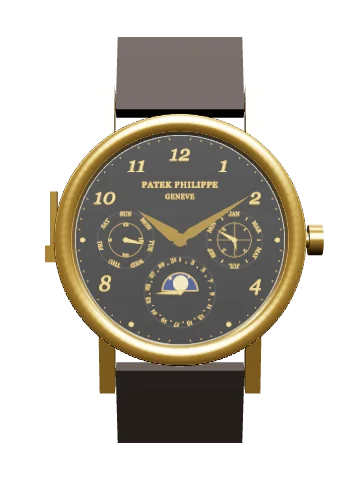
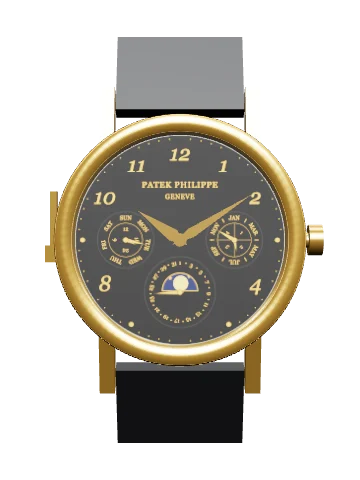
Patek 3974: correct the metal colours
Yellow gold is brighter and less olive (all three gold watches). On the 3974 the bridges are bright silver as photographed, the rotor and the governor's cross are a satin gold that no longer reads brown, the stand-in movement ring is gold like the case, and the strap is black. Thumbnails re-rendered for the three gold watches.

diff --git a/workbench/model.js b/workbench/model.js
@@ -7,7 +7,9 @@ import * as THREE from 'three';
 const INK = 0x242521, BRASS_HI = 0xE2C27A;
 const KIND = {
   steel:    { real: { color: 0xcfcfcb, metalness: 1, roughness: 0.3 }, tech: 0xEDE6D8 },
-  gold:     { real: { color: 0xd9b25c, metalness: 1, roughness: 0.24 }, tech: 0xEDE6D8 },
+  gold:     { real: { color: 0xefc567, metalness: 1, roughness: 0.24 }, tech: 0xEDE6D8 }, // 18-carat yellow gold
+  goldSatin:{ real: { color: 0xe6c36c, metalness: 0.7, roughness: 0.5 }, tech: 0xEDE6D8 }, // gold with an engine-turned or grained face, which scatters the light and reads brighter
+  rhodium:  { real: { color: 0xe6e6e2, metalness: 0.8, roughness: 0.42 }, tech: 0xEDE6D8 }, // the bright silvery plating on fine bridges
   rose:     { real: { color: 0xd9a183, metalness: 1, roughness: 0.26 }, tech: 0xEDE6D8 },
   navy:     { real: { color: 0x151b30, metalness: 0, roughness: 0.85 }, tech: 0xD9CEB9 },
   steelDark:{ real: { color: 0x9c9c99, metalness: 1, roughness: 0.36 }, tech: 0xE1D8C4 },
@@ -172,7 +174,7 @@ export function buildProcedural(watch, face, tex) {
   assembly(hands, 13);
 
   /* ----- spacer ring, dust cover, caseback ----- */
-  if (P.spacer !== false && !wideMv) { const spacer = part('spacer'); spacer.add(mk(lathe([[mvR + 0.05, -3.6], [inner - 0.1, -3.6], [inner - 0.1, 2.0], [mvR + 0.05, 2.0], [mvR + 0.05, -3.6]]), 'steelDark')); assembly(spacer, -7); }
+  if (P.spacer !== false && !wideMv) { const spacer = part('spacer'); spacer.add(mk(lathe([[mvR + 0.05, -3.6], [inner - 0.1, -3.6], [inner - 0.1, 2.0], [mvR + 0.05, 2.0], [mvR + 0.05, -3.6]]), P.spacerKind || 'steelDark')); assembly(spacer, -7); }
   const dust = P.dustCover === false ? null : part('dustcover'); if (dust) { dust.add(at(mk(cyl(inner - 0.3, 0.25, 64), 'iron'), 0, 0, -4.3)); assembly(dust, -24); }
   const back = part('caseback'); if (tank) back.add(at(mk(extr(rrShape(wideMv ? R - 0.05 : CW, CH, CR), 1.2), CASE), 0, 0, -5.8)); else back.add(mk(lathe([[0, -6.4], [R - 6.85, -6.4], [R - 2.25, -5.4], [R - 1.45, -4.6], [0, -4.6]]), CASE)); if (G3) back.add(at(mk(cyl(G3.tb[2] + 0.4, 0.08, 48), 'ink'), G3.tb[0], G3.tb[1], -4.55)); /* dark behind the tourbillon when the back is on; with the back off, the tourbillon shows from behind too */ assembly(back, -31);
 
@@ -531,18 +533,18 @@ export function buildProcedural(watch, face, tex) {
     pal.rotation.z = Math.atan2(BY - pmy, BX - pmx) - Math.PI / 2; pal.add(palRock);
     palRock.add(at(mk(new THREE.BoxGeometry(0.4, 2.6, 0.2), 'steelDark'), 0, 0.4, 1.1), at(mk(new THREE.BoxGeometry(1.8, 0.36, 0.2), 'steelDark'), 0, -0.8, 1.1), at(mk(new THREE.BoxGeometry(0.28, 0.45, 0.3), 'ruby'), -0.8, -1.0, 1.1), at(mk(new THREE.BoxGeometry(0.28, 0.45, 0.3), 'ruby'), 0.8, -1.0, 1.1));
     /* bridges: plain outlines laid over the jewels that the photograph shows */
-    layer(flat('main-bridge', [[3.2, 7.4, 4.2], [-3.8, 7.8, 3.5], [-8.6, 6.6, 1.6]], 2.35, 0.45), 4);
-    layer(flat('repeater-bridge', [[6.0, -6.2, 3.2], [6.4, -8.3, 2.4]], 2.35, 0.45), 4);
-    layer(flat('escape-cock', [[eX, eY, 1.0], [-10.9, -1.0, 1.1]], 2.35, 0.45), 4);
-    layer(flat('pallet-cock', [[pmx, pmy, 0.6], [-9.3, -5.3, 0.6]], 1.45, 0.24), 3);
-    layer(flat('balance-cock', [[BX, BY, 1.3], [-9.6, -6.9, 1.2]], 3.3, 0.45), 4);
+    layer(flat('main-bridge', [[3.2, 7.4, 4.2], [-3.8, 7.8, 3.5], [-8.6, 6.6, 1.6]], 2.35, 0.45, 'rhodium'), 4); // bright and silvery, as the photographs show them
+    layer(flat('repeater-bridge', [[6.0, -6.2, 3.2], [6.4, -8.3, 2.4]], 2.35, 0.45, 'rhodium'), 4);
+    layer(flat('escape-cock', [[eX, eY, 1.0], [-10.9, -1.0, 1.1]], 2.35, 0.45, 'rhodium'), 4);
+    layer(flat('pallet-cock', [[pmx, pmy, 0.6], [-9.3, -5.3, 0.6]], 1.45, 0.24, 'rhodium'), 3);
+    layer(flat('balance-cock', [[BX, BY, 1.3], [-9.6, -6.9, 1.2]], 3.3, 0.45, 'rhodium'), 4);
     jewel(-3.71, 9.35, 2.86, 4); jewel(-6.34, 7.81, 2.86, 4); jewel(-9.28, 6.49, 2.86, 4);
     jewel(6.8, -4.41, 2.86, 4); jewel(4.64, -5.8, 2.86, 4); jewel(7.27, -7.96, 2.86, 4); jewel(5.41, -9.2, 2.86, 4);
     jewel(eX, eY, 2.86, 4); jewel(BX, BY, 3.82, 4); jewel(pmx, pmy, 1.3, 0);
     /* the repeater's governor: a small flywheel that sets the pace of the chime. On this calibre it is open to view and carries the Calatrava cross */
     const gov = at(part('governor', mv), 8.12, 0.31, 0);
-    gov.add(at(mk(new THREE.TorusGeometry(2.9, 0.22, 8, 56), 'steel', { edgeAngle: 50 }), 0, 0, 2.3), at(mk(cyl(0.55, 0.3, 14), 'gold'), 0, 0, 2.3), at(mk(cyl(0.2, 2.4, 10), 'steelDark', { noEdges: true }), 0, 0, 1.2));
-    for (let k = 0; k < 2; k++) { const arm = mk(new THREE.BoxGeometry(5.3, 0.75, 0.2), 'gold'); arm.position.z = 2.3; arm.rotation.z = k * Math.PI / 2; gov.add(arm); }
+    gov.add(at(mk(new THREE.TorusGeometry(2.9, 0.22, 8, 56), 'steel', { edgeAngle: 50 }), 0, 0, 2.3), at(mk(cyl(0.55, 0.3, 14), 'goldSatin'), 0, 0, 2.3), at(mk(cyl(0.2, 2.4, 10), 'steelDark', { noEdges: true }), 0, 0, 1.2));
+    for (let k = 0; k < 2; k++) { const arm = mk(new THREE.BoxGeometry(5.3, 0.75, 0.2), 'goldSatin'); arm.position.z = 2.3; arm.rotation.z = k * Math.PI / 2; gov.add(arm); }
     layer(gov, 5); gov.userData.anchor = [0, 0, 2.6];
     /* the two hammers, at the edge of the movement, and the two wire gongs that run round it */
     layer(multi('hammers', [[[1.16, -9.97, 0.8], [2.5, -8.9, 0.5]], [[3.48, -8.81, 0.8], [4.9, -8.0, 0.5]]], 2.85, 0.4, 'steel'), 7);
@@ -551,7 +553,7 @@ export function buildProcedural(watch, face, tex) {
     gongs.userData.anchor = [0, mvR - 0.45, 0.8]; layer(gongs, 2);
     /* the rotor: a half-disc of gold on its own pivot, off centre, swinging above the bridges */
     const rot = at(part('rotor', mv), -4.48, -0.46, 0), rw = new THREE.Shape(); rw.absarc(0, 0, 7.9, -Math.PI / 4, Math.PI * 3 / 4, false); rw.closePath();
-    rot.add(at(mk(extr(rw, 0.55), 'gold', { edgeAngle: 40 }), 0, 0, 3.95), at(mk(cyl(1.1, 0.7, 20), 'steel'), 0, 0, 4.3), at(mk(cyl(0.7, 3.95, 16), 'steelDark', { noEdges: true }), 0, 0, 1.975));
+    rot.add(at(mk(extr(rw, 0.55), 'goldSatin', { edgeAngle: 40 }), 0, 0, 3.95), at(mk(cyl(1.1, 0.7, 20), 'steel'), 0, 0, 4.3), at(mk(cyl(0.7, 3.95, 16), 'steelDark', { noEdges: true }), 0, 0, 1.975));
     rot.userData.anchor = [2.5, 2.5, 4.6]; layer(rot, 12);
     /* From a second photograph, of a rose gold 3974 (Watch Collecting Lifestyle, 2016), fitted to this layout by the governor and the rotor's pivot: two steel winding wheels
        in mesh, one on the rotor's axis and one beside it, and a large capped jewel in the main bridge. The same photograph puts a jewel within 0.5 mm of the one taken above to

diff --git a/workbench/watches/patek-3974.js b/workbench/watches/patek-3974.js
@@ -25,7 +25,7 @@ export default {
     type: 'procedural',
     builder: 'round-chronograph',
     note: 'A partial model. Patek Philippe publishes no drawing of this movement, and most of it cannot be seen. What shows from the back is placed from two photographs: the gold rotor and the winding wheels beneath it, the repeater’s governor, the balance, the hammers and the jewels in the bridges. The barrel, the going train, the repeating work and the calendar work are hidden, and they are left out of the model so that nothing is invented. Case, lugs and bezel are simplified. Not a factory model or scan.',
-    params: { thickness: 12, lugToLug: 43, lugWidth: 19, movementDiameter: 28, beatsPerHour: 21600, calibre: 'R27', chrono: false, noSeconds: true, dustCover: false, metal: 'gold', hands: 'dauphine', plate: 'steel', bezelInsert: false, slide: true, crownR: 2.2, dome: 1.6, wall: 3.0, lugThick: 2.2 }
+    params: { thickness: 12, lugToLug: 43, lugWidth: 19, movementDiameter: 28, beatsPerHour: 21600, calibre: 'R27', chrono: false, noSeconds: true, dustCover: false, metal: 'gold', hands: 'dauphine', plate: 'steel', bezelInsert: false, slide: true, spacerKind: 'gold', strapKind: 'ink', crownR: 2.2, dome: 1.6, wall: 3.0, lugThick: 2.2 }
   },
   images: [],
 
